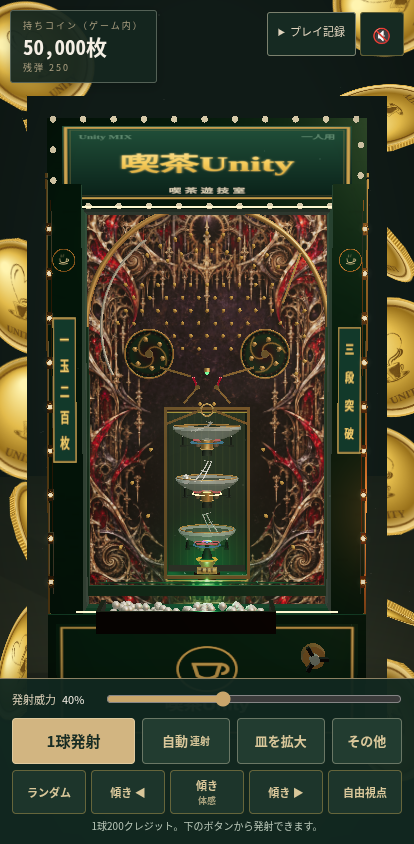
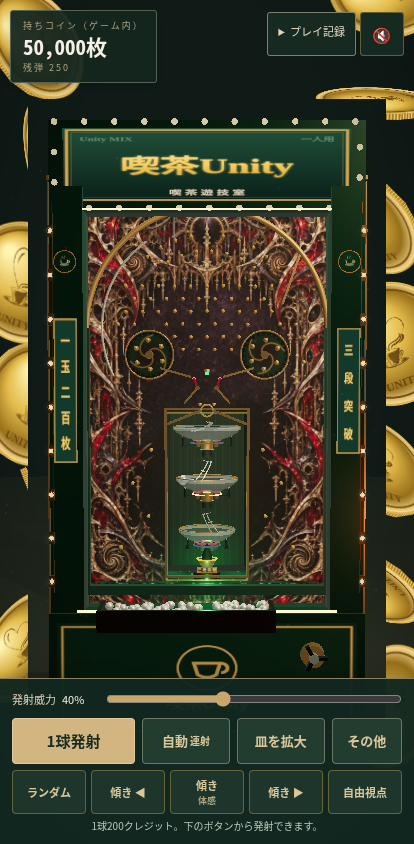
Give each lamp event a forward stage position

diff --git a/test/silver-cabinet-lamp-state.test.js b/test/silver-cabinet-lamp-state.test.js
@@ -35,6 +35,18 @@ test('deeper bowl entries advance the light path and gently increase emphasis', 
   assert.ok(final.level > first.level);
 });
 
+test('gate, bowls, and sinks continue forward along one lamp path', () => {
+  const gate = sampleCabinetLampState({ pulse: { kind: 'gate', age: 0.2 } });
+  const firstBowl = sampleCabinetLampState({ pulse: { kind: 'bowl', tier: 0, age: 0.2 } });
+  const finalBowl = sampleCabinetLampState({ pulse: { kind: 'bowl', tier: 2, age: 0.2 } });
+  const firstSink = sampleCabinetLampState({ pulse: { kind: 'sink', tier: 0, win: false, age: 0.2 } });
+  const finalSink = sampleCabinetLampState({ pulse: { kind: 'sink', tier: 2, win: true, age: 0.2 } });
+  assert.ok(gate.chase < firstBowl.chase, [gate, firstBowl]);
+  assert.ok(firstBowl.chase < finalBowl.chase, [firstBowl, finalBowl]);
+  assert.ok(finalBowl.chase < firstSink.chase, [finalBowl, firstSink]);
+  assert.ok(firstSink.chase < finalSink.chase, [firstSink, finalSink]);
+});
+
 test('lower-priority events cannot replace an active jackpot lamp pulse', () => {
   const jackpot = { kind: 'jackpot', tier: 2, win: true, age: 0.35 };
   assert.equal(chooseCabinetPulse(jackpot, { kind: 'gate', tier: 0, win: false, age: 0 }), jackpot);
@@ -46,6 +58,14 @@ test('newer equal-priority pulses replace stale pulses', () => {
   const prior = { kind: 'bowl', tier: 0, win: false, age: 0.25 };
   const next = { kind: 'bowl', tier: 2, win: false, age: 0 };
   assert.equal(chooseCabinetPulse(prior, next), next);
+});
+
+test('an active successful sink cannot be replaced by a miss or unknown event', () => {
+  const win = { kind: 'sink', tier: 1, win: true, age: 0.2 };
+  const miss = { kind: 'sink', tier: 1, win: false, age: 0 };
+  assert.equal(chooseCabinetPulse(win, miss), win);
+  assert.equal(chooseCabinetPulse(win, { kind: 'toString', tier: 0, age: 0 }), win);
+  assert.equal(chooseCabinetPulse(null, { kind: 'constructor', tier: 0, age: 0 }), null);
 });
 
 test('jackpot is a short champagne crescendo then returns to idle', () => {

diff --git a/public/silver-ring/index.html b/public/silver-ring/index.html
@@ -22,4 +22,4 @@
 <div id="over" class="overlay"><div class="ov-title-sm">コインがなくなりました</div><div class="ov-quote" id="overQuote"></div><div class="ov-quote-cn" id="overQuoteCn"></div><div id="overDebt"></div><button class="btn" id="btnRetry">もう一度遊ぶ（5万枚）</button><button class="btn dark" id="btnBorrow">練習コインを補充（10万枚）</button></div>
 <div id="paused" hidden>一時停止中です。<button class="btn" id="resumeGame">ここから再開</button></div>
 <details id="devPanel" hidden><summary>練習・検証用の操作</summary><button data-stage="0">1段目に投入</button><button data-stage="1">2段目に投入</button><button data-stage="2">3段目に投入</button><button id="devMany">5玉を同時投入</button><button id="devJack">大当たり演出</button><button id="devEmpty">玉切れ</button><p>この操作は自然発射の検証と区別します。</p></details>
-<script type="module" src="./src/main.js?v=cabinetlamps4"></script></body></html>
+<script type="module" src="./src/main.js?v=cabinetlamps5"></script></body></html>

diff --git a/public/silver-ring/src/cabinet-lamp-state.js b/public/silver-ring/src/cabinet-lamp-state.js
@@ -58,7 +58,9 @@ export function sampleCabinetLampState({ time = 0, mode = 'idle', pulse = null, 
         const strength = pulse.kind === 'jackpot' ? 1.12 : pulse.kind === 'sink' ? 0.82 : 0.68 + tierBoost;
         level = 0.2 + (strength - 0.2) * attack * release;
         if (pulse.kind === 'jackpot') level += Math.sin(age * 13) * 0.045 * release;
-        chase = (Math.floor(progress * 18) + (pulse.kind === 'bowl' ? tier * 3 : 0)) % 18;
+        const chaseStart = pulse.kind === 'bowl' ? 8 + tier * 2 : pulse.kind === 'sink' ? 14 + tier : 0;
+        const chaseSpan = pulse.kind === 'bowl' ? 4 : pulse.kind === 'sink' ? 2 : 18;
+        chase = Math.min(17, Math.floor(chaseStart + progress * chaseSpan));
       }
     }
   } else if (mode === 'jackpot') {

diff --git a/public/silver-ring/src/fx.js b/public/silver-ring/src/fx.js
@@ -1,6 +1,6 @@
 import {holeGeometry} from './hole-geometry.js';
 import {updateRainbowRim} from './rainbow-rim.js?v=rainbow3';
-import {CABINET_PULSE_SECONDS,chooseCabinetPulse,sampleCabinetLampState} from './cabinet-lamp-state.js?v=cabinetlamps4';
+import {CABINET_PULSE_SECONDS,chooseCabinetPulse,sampleCabinetLampState} from './cabinet-lamp-state.js?v=cabinetlamps5';
 // Adapted with author permission reported by the user. See ../NOTICE.txt.
 // ============================================================
 // 「沼」动态特效 —— 粒子 / 运镜 / 霓虹 / ざわざわ / 珠雨

diff --git a/public/silver-ring/src/main.js b/public/silver-ring/src/main.js
@@ -12,8 +12,8 @@ import{renderFrame}from'./render-frame.js';
 import { CFG,buildLayout } from './config.js';
 import {createRng} from './seed.js';
 import { Sim, clearPower, randPowerRange } from './physics.js';
-import { buildScene, TOUCH } from './scene.js?v=cabinetlamps4';
-import { FX } from './fx.js?v=cabinetlamps4';
+import { buildScene, TOUCH } from './scene.js?v=cabinetlamps5';
+import { FX } from './fx.js?v=cabinetlamps5';
 import { AudioEngine } from './audio.js?v=credits1';
 import { UI } from './ui.js';
 import {mountPresentation} from './presentation.js';

diff --git a/docs/retro-cabinet-lamps-worklog.md b/docs/retro-cabinet-lamps-worklog.md
@@ -5,14 +5,14 @@
 - Existing dirty checkout `/workspace/Unity-Web` and its unrelated H3 changes remain untouched.
 - User-selected direction: first concept, dark emerald cabinet with brass trim and warm/green/champagne lamps.
 - Scope lock: preserve playfield/役物 geometry, physics/settlement, CFG, controls, camera/layout values and audio. Only decorative cabinet appearance and lamp choreography may change.
-- Active implementation: approximately 75 minutes through 19:12 UTC; dedicated 60-minute QA phase: not started. This is a conservative estimate; tool waits, browser startup and idle time are excluded. Browser runs so far are implementation smoke checks, not counted toward the separate QA allowance.
+- Active implementation: approximately 80 minutes through 19:15 UTC; dedicated 60-minute QA phase: not started. This is a conservative estimate; tool waits, browser startup and idle time are excluded. Browser runs so far are implementation smoke checks, not counted toward the separate QA allowance.
 - Baseline: captured at 375/390/414 × 844 in Chromium, same page and play flow. Main reference is `docs/qa/retro-cabinet-lamps/baseline/390x844-idle.png`; initial local-only logo 404 from an incorrect server root was corrected before validating changes.
 - Exterior: dark emerald enamel body with deterministic satin-grain texture, batched brass rails, 18 instanced side lamps with bezels and soft glow, two symmetric coffee medallions, and the existing marquee lights retained. Lower marquee guide line moved to the sign lip to clear its subtitle. The side rails, header bulbs, and horizontal sign light bars now share event color/choreography.
-- Lamp state is deterministic and separate from physics. Gate/bowl/sink/jackpot events produce amber/emerald/champagne pulses with progression priority; weaker new events cannot replace an active win/jackpot. Sink miss is amber; deeper bowl entries advance farther. Reduced-motion mode holds static color, disables chase, and avoids repeated instance-buffer uploads. Pause and game over clear temporary pulses.
+- Lamp state is deterministic and separate from physics. Gate/bowl/sink/jackpot events produce amber/emerald/champagne pulses with progression priority; weaker new events cannot replace an active win/jackpot. Sink miss is amber; gate, each bowl stage, and sinks occupy forward segments on the shared 18-lamp path. Reduced-motion mode holds static color, disables chase, and avoids repeated instance-buffer uploads. Pause and game over clear temporary pulses.
 - A previous suspicion that the frame loop overwrote jackpot mode was checked against `jackpotLock`; no bug was present and the unnecessary change was reverted.
 - Matched captures: baseline `docs/qa/retro-cabinet-lamps/baseline/390x844-wide-matched.png`, updated `docs/qa/retro-cabinet-lamps/final/390x844-wide-matched.png`; target-width idle/event/jackpot/reduced captures are under `docs/qa/retro-cabinet-lamps/final/`.
 - Latest implementation smoke across 375/390/414×844, 375×667, and 844×390: phase `play`, board children 54, cabinet lamps 18, no horizontal overflow, exact cabinet bounds unchanged (`[-1,-.02,-1.161]` to `[1,3.056,.839]`), event pulse priority and stage paths pass, sink miss/win colors distinguish amber/champagne, jackpot lock persists, reduced-motion lamp/glow/marquee arrays remain byte-identical between stable frames, pause clears pulses, single shot still deducts 200, and no app JS/page/resource errors. Side-lamp max channel rises from ~0.24 idle to ~2.05 during bowl entry; diffuse-glow max rises from ~0.11 to ~0.95. Header-bulb green-minus-red contrast changes from ~-0.15 idle to +1.64 during entry; sign strip green-minus-red changes from ~-0.12 to +0.75.
-- Focused lamp-state/shell-contract tests pass 12/12. Earlier, all silver unit suites except `silver-security.test.js` passed 23/23; the security suite could not resolve `ws` because this isolated worktree has no installed project dependencies. No package was added. `node --check`, Python syntax check, and `git diff --check` pass.
+- Focused lamp-state/shell-contract tests pass 14/14. The full silver suite (excluding the unrelated security test whose `ws` dependency is not installed in this isolated worktree) passed 23/23 before the latest stage-path-only test change. No package was added. `node --check`, Python syntax check, and `git diff --check` pass.
 - Matched 390px renderer count after batching and emblems: main 194 calls / 153,790 triangles; updated 203 calls / 161,046 triangles (+9 calls, +4.72% triangles), render size unchanged. Browser rAF is very slow under software WebGL; this is not a physical handset or hardware-acceleration measurement. At matched camera mode, machine bounds remain `[-1,-0.02,-1.161]` to `[1,3.056,0.839]`, renderer canvas remains 390×844, and board child count remains 54.
 - Retina-like mobile check also passes at CSS 390×844 / devicePixelRatio 3: renderer ratio caps at 2, page has no horizontal overflow, board child count remains 54, and event lamps are visible.
 - Current phase decision: continue implementation improvements. The requested 120-minute implementation block is not complete; separate 60-minute QA and production deployment have not started.
